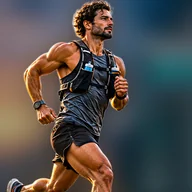
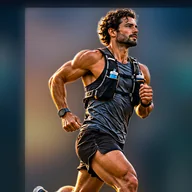
Program thumbnails: keep the person centred when they stand at the poster's edge
The crop may now extend past the poster; the gap is filled with blurred background from the opposite edge (not a mirror of the person, which produced ghost limbs), softened and feathered at the seam.

Claude-Session: https://claude.ai/code/session_012YgKLqCT1xMDwTTyUjBGfJ

diff --git a/scripts/program-images.py b/scripts/program-images.py
@@ -46,9 +46,30 @@ def thumb_crop(size, box):
     side = min(max(side, min(w, h) * 0.38), min(w, h))
     cx = (x0 + x1) / 2
     top = (y0 + y1) / 2 - side / 2 if sh <= side else y0 - side * 0.04  # whole person if they fit, else from the head down
-    left = min(max(cx - side / 2, 0), w - side)
-    top = min(max(top, 0), h - side)
+    left = cx - side / 2                   # may run past the edge: the person is centred, and the gap is filled by crop_padded
+    top = min(max(top, -side * 0.08), h - side)
     return (int(left), int(top), int(left + side), int(top + side))
+
+
+def crop_padded(im, box):
+    """Crop a box that may extend past the image; the missing strip is a mirror of the blurred background, so the
+    person stays centred instead of being pushed to one side when they stand at the poster's edge."""
+    x0, y0, x1, y1 = box
+    w, h = im.size
+    pad = max(0, -x0, -y0, x1 - w, y1 - h)
+    if not pad:
+        return im.crop(box)
+    # Fill from the opposite side of the poster (pure blurred background, not a mirror of the person's own edge),
+    # then soften the fill and feather the seam so nothing reads as a hard line.
+    a = np.asarray(im)
+    padded = Image.fromarray(np.pad(a, ((pad, pad), (pad, pad), (0, 0)), mode="wrap"))
+    soft = padded.filter(ImageFilter.GaussianBlur(max(12, pad // 6)))
+    mask = Image.new("L", padded.size, 255)
+    inner = Image.new("L", (w, h), 0)
+    mask.paste(inner, (pad, pad))
+    mask = mask.filter(ImageFilter.GaussianBlur(max(10, pad // 8)))   # feathered boundary between poster and fill
+    out = Image.composite(soft, padded, mask)
+    return out.crop((x0 + pad, y0 + pad, x1 + pad, y1 + pad))
 
 
 def stale(dest, src):
@@ -71,7 +92,7 @@ for png in sorted(SRC.glob("*.png")):
         for w in THUMB_WIDTHS:
             dest = OUT / f"{png.stem}-thumb-{w}.webp"
             if stale(dest, png):
-                im.crop(crop).resize((w, w), Image.LANCZOS).save(dest, "WEBP", quality=QUALITY[w], method=6)
+                crop_padded(im, crop).resize((w, w), Image.LANCZOS).save(dest, "WEBP", quality=QUALITY[w], method=6)
                 written.append(dest)
         if PREVIEW:
             dbg = im.copy()
@@ -81,7 +102,7 @@ for png in sorted(SRC.glob("*.png")):
             dbg.thumbnail((260, 260))
             tile = Image.new("RGB", (260, 440), "white")
             tile.paste(dbg, (0, 0))
-            tile.paste(im.crop(crop).resize((160, 160), Image.LANCZOS), (50, 270))
+            tile.paste(crop_padded(im, crop).resize((160, 160), Image.LANCZOS), (50, 270))
             ImageDraw.Draw(tile).text((4, 430), png.stem, fill="black")
             tiles.append(tile)
     print(f"{png.name}: subject {box} thumb crop {crop}; wrote {len(written)} file(s)")
